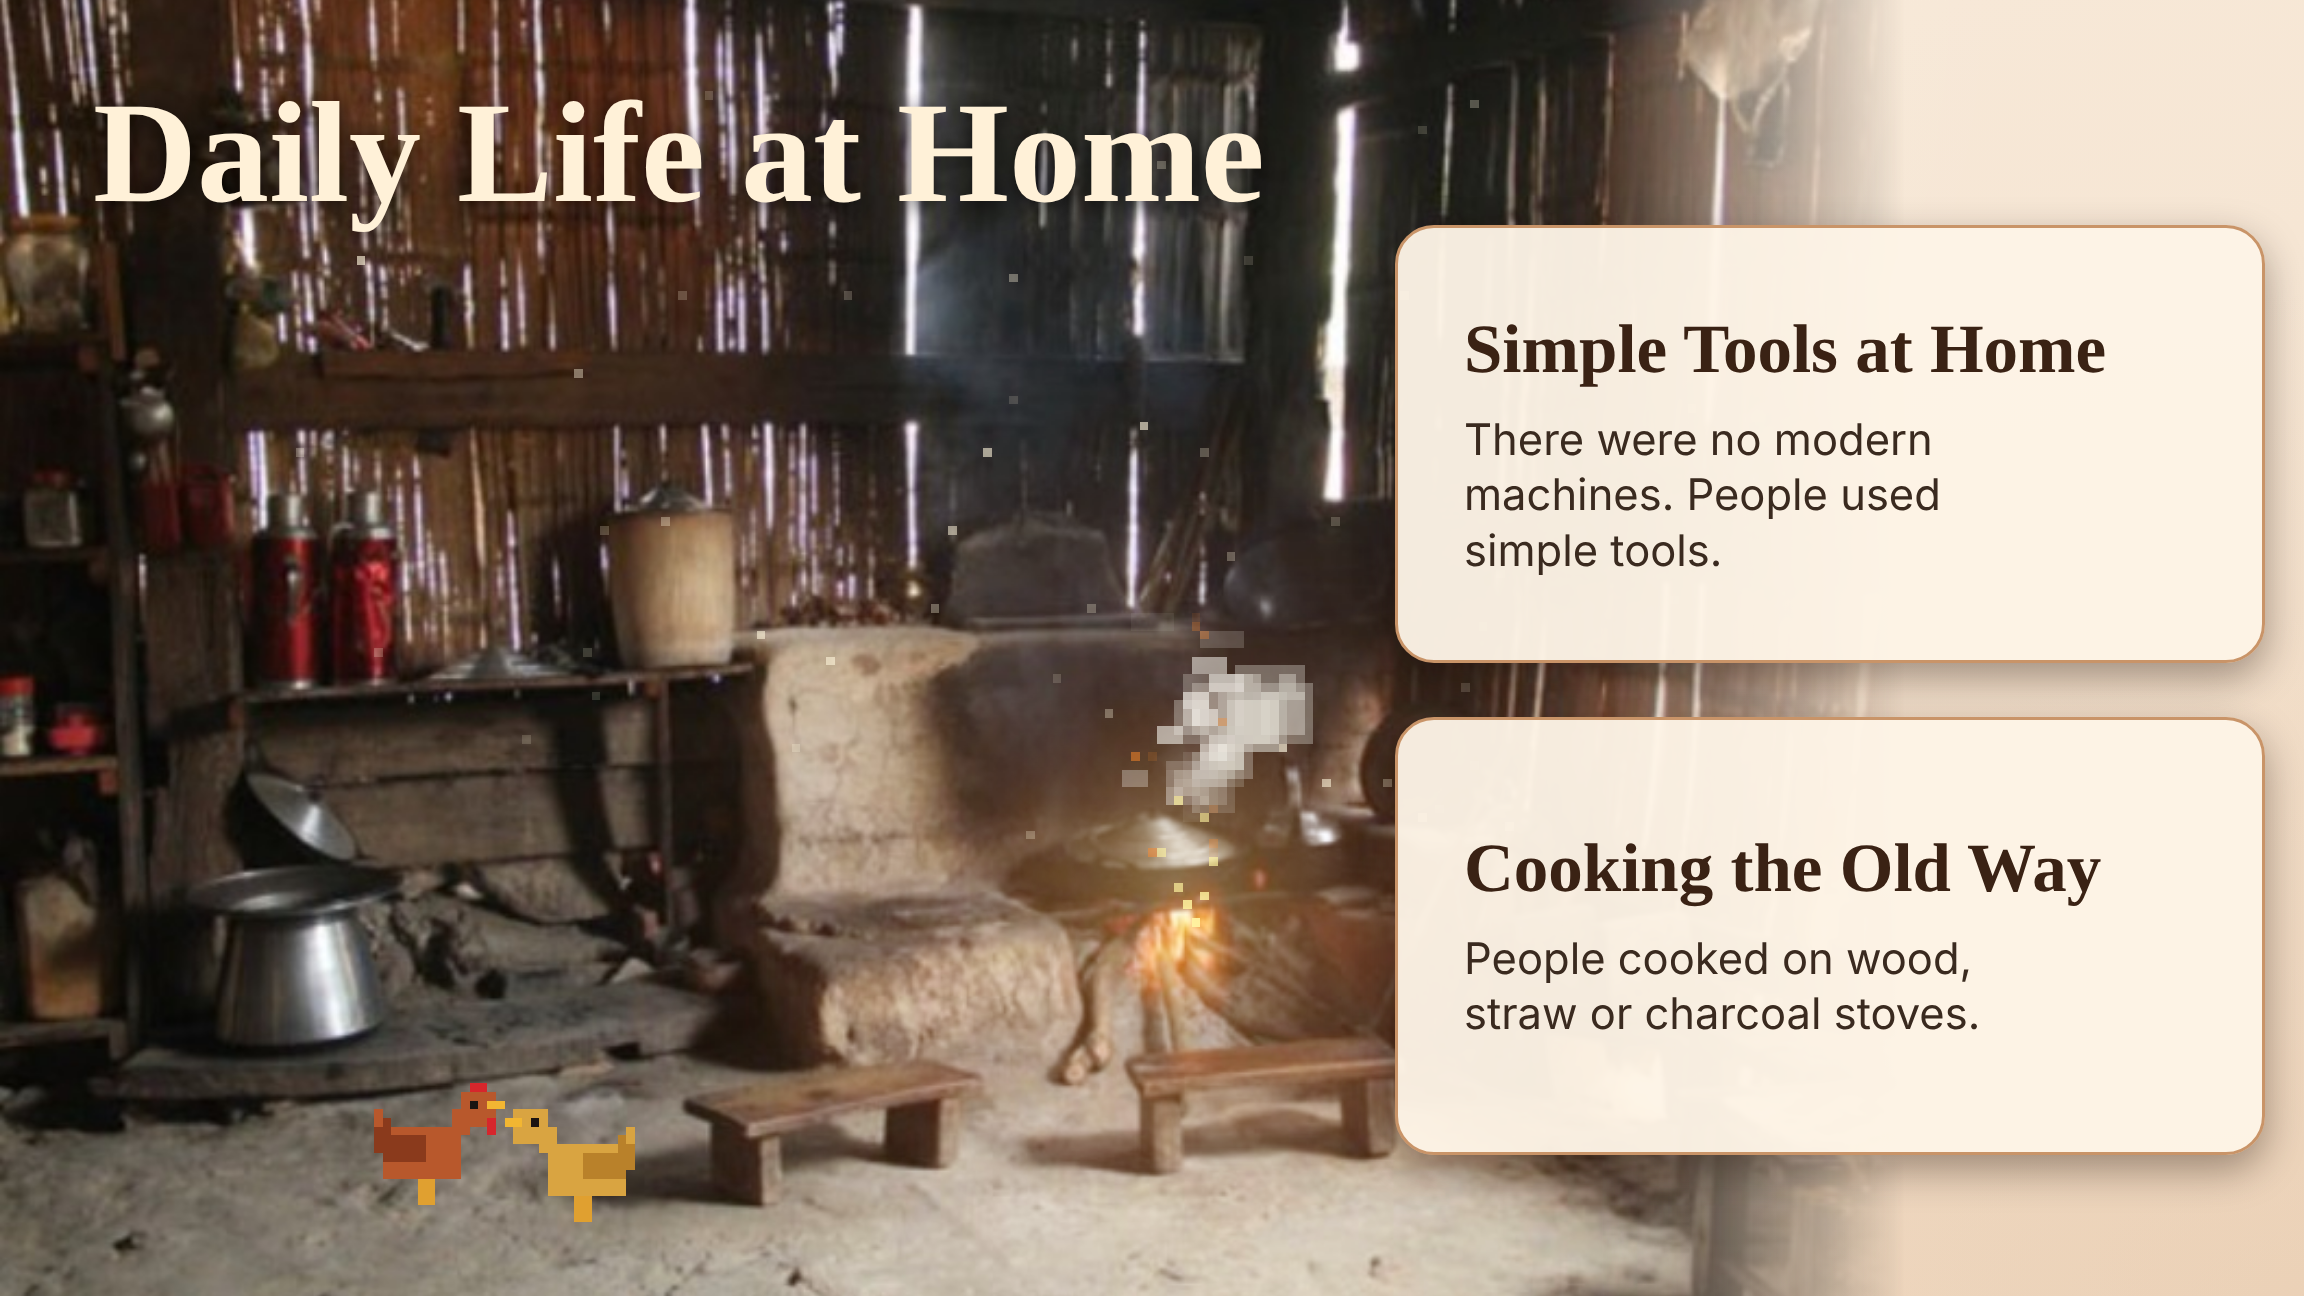
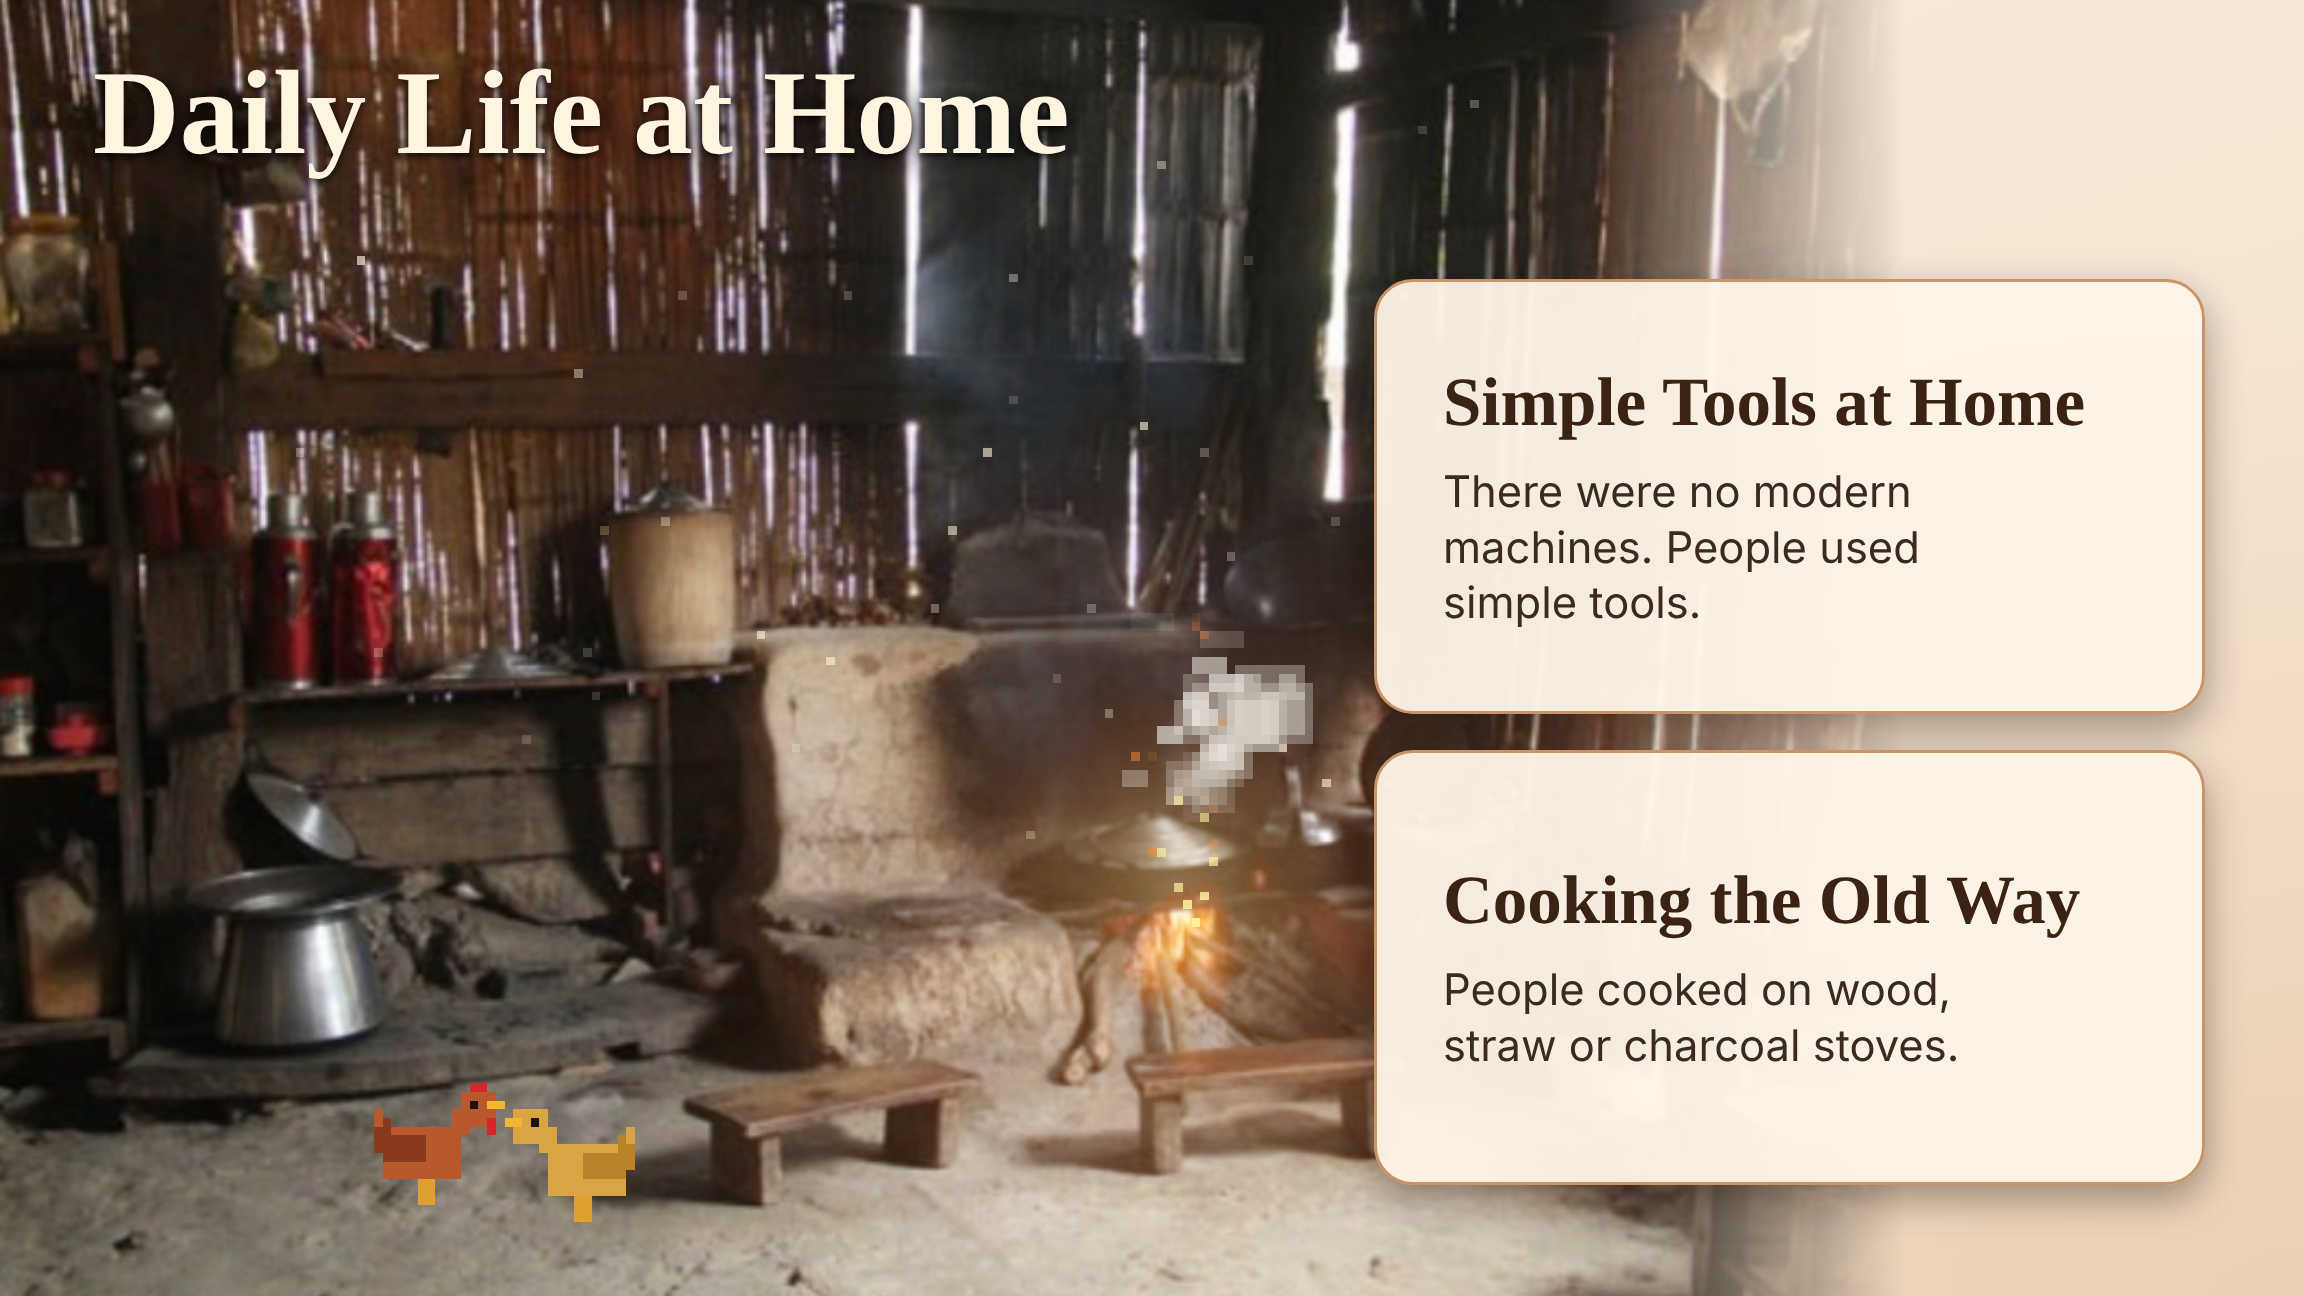
Chỉnh bố cục slide 4,5,7: tiêu đề căn trái, thẻ tách khỏi khung ảnh, giảm hiệu ứng chữ khói
Claude-Session: https://claude.ai/code/session_015dETkK63Reb6JNnJAvDzmD

Changed region(s): [[0.5938, 0.1543, 1.0, 0.9568], [0.0312, 0.0309, 0.5625, 0.1852]]

diff --git a/slide7-anim.html b/slide7-anim.html
@@ -13,20 +13,20 @@
     body { padding: 0; overflow: hidden; }
     .deck { position: absolute; left: 0; top: 0; transform-origin: 0 0; zoom: 1; display: block; gap: 0; }
     /* Bố cục slide 7 có làng: 2 thẻ bên trái, khung làng pixel bên phải, 2 ảnh kỷ niệm kẹp ở góc trời */
-    .s7 .title { top: 40px; left: 0; right: 0; text-align: center; font-size: 84px; }
-    .s7 .rule { top: 148px; left: 330px; right: 330px; }
-    .s7 .c1 { left: 30px; top: 200px; width: 392px; height: 272px; padding-left: 36px; z-index: 6; box-shadow: 0 8px 22px rgba(60,30,10,.25); }
-    .s7 .c2 { left: 1114px; top: 560px; width: 392px; height: 272px; padding-left: 36px; z-index: 6; box-shadow: 0 8px 22px rgba(60,30,10,.25); }
+    .s7 .title { top: 34px; left: 66px; right: auto; text-align: left; font-size: 80px; }
+    .s7 .rule { top: 140px; left: 66px; right: 66px; }
+    .s7 .c1 { left: 900px; top: 186px; width: 570px; height: 290px; z-index: 6; }
+    .s7 .c2 { left: 900px; top: 500px; width: 570px; height: 290px; z-index: 6; }
     .s7 .card { background: #fcf1e2; }
     .s7 .card h3 { font-size: 38px; }
-    .s7 .card p { max-width: 310px; font-size: 25px; }
-    .vpanel { left: 388px; top: 190px; width: 760px; height: 563px; border: 2px solid var(--line); border-radius: 26px; overflow: hidden;
+    .s7 .card p { max-width: 420px; font-size: 27px; }
+    .vpanel { left: 66px; top: 186px; width: 800px; height: 593px; border: 2px solid var(--line); border-radius: 26px; overflow: hidden;
               box-shadow: 0 8px 20px rgba(60,30,10,.18); background: #cfe6ee; }
-    #scene { position: absolute; left: 0; top: 0; width: 760px; height: 563px; image-rendering: pixelated; }
+    #scene { position: absolute; left: 0; top: 0; width: 800px; height: 593px; image-rendering: pixelated; }
     .snap { margin: 0; background: #fffaf2; padding: 7px; box-shadow: 0 4px 10px rgba(60,30,10,.35); z-index: 3; }
     .snap img { display: block; width: 100%; height: 100%; object-fit: cover; }
-    .sa { left: 414px; top: 212px; width: 214px; height: 128px; transform: rotate(-3deg); }
-    .sb { left: 906px; top: 216px; width: 214px; height: 132px; transform: rotate(2.5deg); }
+    .sa { left: 88px; top: 206px; width: 180px; height: 110px; transform: rotate(-3deg); }
+    .sb { left: 664px; top: 206px; width: 180px; height: 110px; transform: rotate(2.5deg); }
   </style>
 </head>
 <body>

diff --git a/textfx.js b/textfx.js
@@ -16,7 +16,7 @@
     glitch:   { cls: 'tf-glitch', dur: 480, parts: { n: 0 }, bars: true },
     sepia:    { cls: 'tf-sepia', dur: 1400, parts: { n: 4, col: ['150,110,70', '190,150,100'], vy: -10, vx: 12, life: 1300, size: 1.8 } },
     glow:     { cls: 'tf-glow',  dur: 1700, parts: { n: 4, col: ['255,214,120', '255,236,170'], vy: -16, vx: 10, life: 1500, size: 2.2, glow: true } },
-    puff:     { cls: 'tf-puff',  dur: 1300, parts: { n: 3, col: ['120,110,100', '150,140,130'], vy: -24, vx: 8, life: 1300, size: 4.5, soft: true } },
+    puff:     { cls: 'tf-puff',  dur: 1300, parts: { n: 2, col: ['120,110,100', '150,140,130'], vy: -24, vx: 8, life: 1100, size: 2.6, soft: true } },
     glint:    { cls: 'tf-glint', dur: 900,  parts: { n: 3, col: ['255,230,150', '255,250,220'], vy: -6, vx: 10, life: 800, size: 2, star: true, glow: true } }
   };
 
@@ -29,7 +29,7 @@
   @keyframes tfGlitch{ 0%{color:inherit;text-shadow:none} 15%{text-shadow:-2px 0 rgba(0,200,255,.85),2px 0 rgba(255,60,140,.85)} 35%{text-shadow:2px 0 rgba(0,200,255,.85),-2px 0 rgba(255,60,140,.85);opacity:.55} 55%{text-shadow:-1px 0 rgba(0,200,255,.7),1px 0 rgba(255,60,140,.7);opacity:1} 100%{color:inherit;text-shadow:none;opacity:1} }
   @keyframes tfSepia { 0%{color:inherit;opacity:1} 30%{color:#a7886a;opacity:.55} 70%{color:#a7886a;opacity:.55} 100%{color:inherit;opacity:1} }
   @keyframes tfGlow  { 0%{color:inherit;text-shadow:none} 35%{color:#b8742a;text-shadow:0 0 6px rgba(255,200,100,.9),0 0 14px rgba(255,190,90,.6)} 65%{color:#b8742a;text-shadow:0 0 6px rgba(255,200,100,.8)} 100%{color:inherit;text-shadow:none} }
-  @keyframes tfPuff  { 0%{color:inherit;opacity:1} 30%{color:#8a8176;opacity:.5} 60%{color:#8a8176;opacity:.6} 100%{color:inherit;opacity:1} }
+  @keyframes tfPuff  { 0%{color:inherit;opacity:1} 30%{color:#7a7166;opacity:.8} 60%{color:#7a7166;opacity:.85} 100%{color:inherit;opacity:1} }
   @keyframes tfGlint { 0%{color:inherit;text-shadow:none} 30%{color:#b8862a;text-shadow:0 0 5px #fff3b8,0 0 11px #ffd978} 100%{color:inherit;text-shadow:none} }
   .tf-fire{animation:tfFire 1.1s ease-out} .tf-elec{animation:tfElec .52s linear} .tf-water{animation:tfWater 1.3s ease-in-out}
   .tf-glitch{animation:tfGlitch .48s steps(6)} .tf-sepia{animation:tfSepia 1.4s ease-in-out} .tf-glow{animation:tfGlow 1.7s ease-in-out}

diff --git a/slide4-anim.html b/slide4-anim.html
@@ -13,17 +13,17 @@
     body { padding: 0; overflow: hidden; }
     .deck { position: absolute; left: 0; top: 0; transform-origin: 0 0; zoom: 1; display: block; gap: 0; }
     /* Bố cục slide 4 có phố động: 2 thẻ bên trái, khung phố pixel bên phải, ảnh xe điện thật kẹp ở góc trời */
-    .s4 .title { top: 50px; left: auto; right: 66px; text-align: right; font-size: 90px; }
-    .s4 .rule { top: 160px; left: 66px; right: 66px; }
-    .s4 .c1 { left: 917px; top: 222px; width: 550px; height: 278px; }
-    .s4 .c2 { left: 917px; top: 525px; width: 550px; height: 280px; }
-    .s4 .card p { max-width: 380px; font-size: 28px; }
-    .vpanel { left: 66px; top: 205px; width: 810px; height: 600px; border: 2px solid var(--line); border-radius: 26px; overflow: hidden;
+    .s4 .title { top: 34px; left: 66px; right: auto; text-align: left; font-size: 80px; }
+    .s4 .rule { top: 140px; left: 66px; right: 66px; }
+    .s4 .c1 { left: 916px; top: 186px; width: 554px; height: 290px; }
+    .s4 .c2 { left: 916px; top: 500px; width: 554px; height: 290px; }
+    .s4 .card p { max-width: 400px; font-size: 28px; }
+    .vpanel { left: 66px; top: 186px; width: 810px; height: 600px; border: 2px solid var(--line); border-radius: 26px; overflow: hidden;
               box-shadow: 0 8px 20px rgba(60,30,10,.18); background: #cfe6ee; }
     #scene { position: absolute; left: 0; top: 0; width: 810px; height: 600px; image-rendering: pixelated; }
     .snap { margin: 0; background: #fffaf2; padding: 7px; box-shadow: 0 4px 10px rgba(60,30,10,.35); z-index: 3; }
     .snap img { display: block; width: 100%; height: 100%; object-fit: cover; }
-    .sa { left: 620px; top: 226px; width: 236px; height: 146px; transform: rotate(2.5deg); }
+    .sa { left: 668px; top: 206px; width: 186px; height: 116px; transform: rotate(2deg); }
   </style>
 </head>
 <body>

diff --git a/slide5-anim.html b/slide5-anim.html
@@ -19,11 +19,11 @@
     .s5 .photo > img { position: absolute; left: 0; top: -9px; width: 1270px; height: 882px; object-fit: cover; }
     .s5::after { content: ''; left: 0; top: 0; width: 1270px; height: 330px; pointer-events: none; z-index: 1;
                  background: linear-gradient(180deg, rgba(18,9,4,.82), rgba(18,9,4,.35) 55%, transparent); }
-    .s5 .title { left: 62px; top: 52px; color: #fff1d8; text-shadow: 0 3px 14px rgba(0,0,0,.65); z-index: 5; }
+    .s5 .title { left: 62px; top: 34px; font-size: 80px; color: #fff4e0; text-shadow: 0 2px 4px rgba(0,0,0,.7), 0 4px 22px rgba(0,0,0,.8); z-index: 5; }
     .s5 .rule { display: none; }
     .s5 .card { z-index: 5; box-shadow: 0 10px 26px rgba(30,12,4,.38); background: rgba(253,244,230,.96); }
-    .s5 .c1 { left: 930px; top: 150px; width: 580px; height: 292px; }
-    .s5 .c2 { left: 930px; top: 478px; width: 580px; height: 292px; }
+    .s5 .c1 { left: 916px; top: 186px; width: 554px; height: 290px; }
+    .s5 .c2 { left: 916px; top: 500px; width: 554px; height: 290px; }
     #glow, #pix { position: absolute; left: 0; top: -9px; width: 1270px; height: 882px; pointer-events: none; }
     #glow { mix-blend-mode: screen; }
     #pix { image-rendering: pixelated; }
